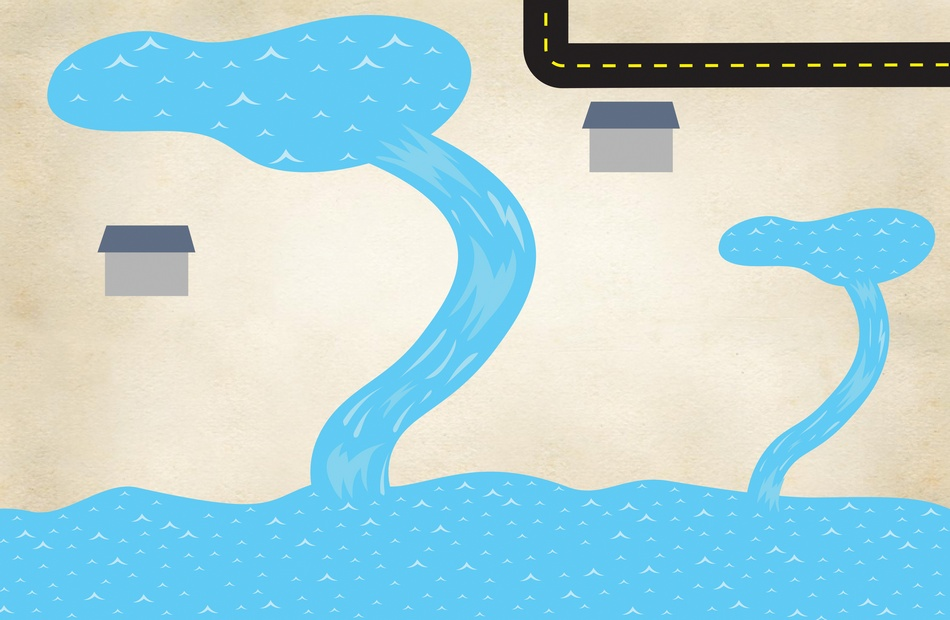
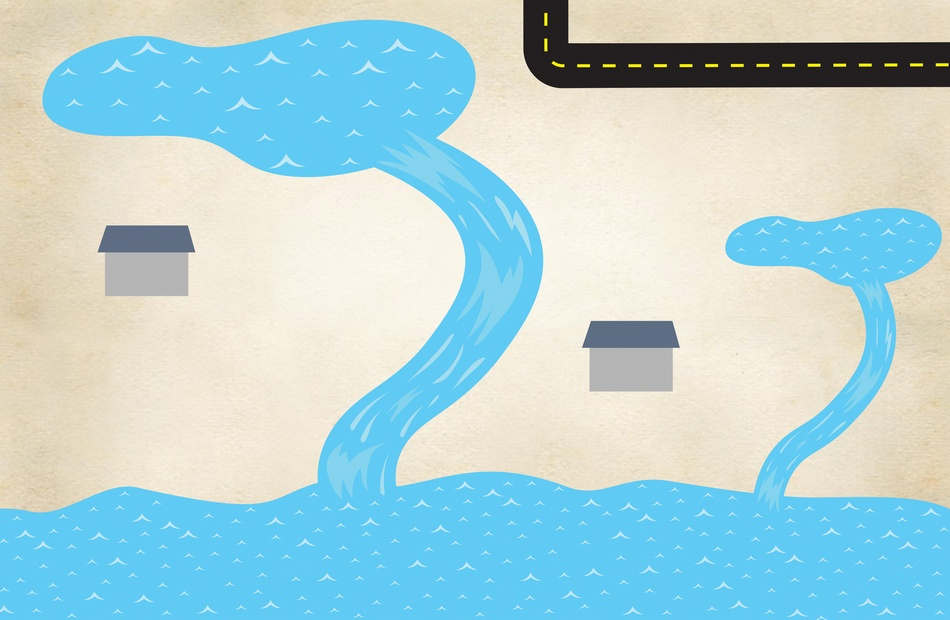
Map fixes WIP

diff --git a/deploy/assets/js/elephantf.css b/deploy/assets/js/elephantf.css
@@ -834,19 +834,21 @@ img {
 }
 .clueDrop1txt {
     position: absolute;
-    width: 141px;
-    top: 184px;
+    width: 142px;
+    top: 157px;
     left: 25px;
     text-align: center;
     text-shadow: -1px 0 white, 0 1px white, 1px 0 white, 0 -1px white;
+    font-size: 40px;
 }
 .clueDrop2txt {
     position: absolute;
     width: 141px;
-    top: 403px;
+    top: 376px;
     left: 25px;
     text-align: center;
     text-shadow: -1px 0 white, 0 1px white, 1px 0 white, 0 -1px white;
+    font-size: 40px;
 }
 
 .gameCloseBtn{

diff --git a/deploy/assets/js/elephant.css b/deploy/assets/js/elephant.css
@@ -841,19 +841,21 @@ img {
 
 .clueDrop1txt {
     position: absolute;
-    width: 141px;
-    top: 184px;
+    width: 142px;
+    top: 157px;
     left: 25px;
     text-align: center;
     text-shadow: -1px 0 white, 0 1px white, 1px 0 white, 0 -1px white;
+    font-size: 40px;
 }
 .clueDrop2txt {
     position: absolute;
     width: 141px;
-    top: 403px;
+    top: 376px;
     left: 25px;
     text-align: center;
     text-shadow: -1px 0 white, 0 1px white, 1px 0 white, 0 -1px white;
+    font-size: 40px;
 }
 
 .gameCloseBtn{

diff --git a/deploy/assets/js/jsondata.js b/deploy/assets/js/jsondata.js
@@ -606,7 +606,7 @@ var g_leveldata =
 			},
 			{
 				"clues": [
-					"forest",
+					"lake",
 					"road"
 				],
 				"symbolStyle": {
@@ -1081,7 +1081,7 @@ var g_leveldata =
 				],
 				"hasExploration": false,
 				"taskid": "9_3",
-				"clueMod": ["none","far"],
+				"clueMod": ["none","near"],
 				"mapset": 9
 			},
 			{
